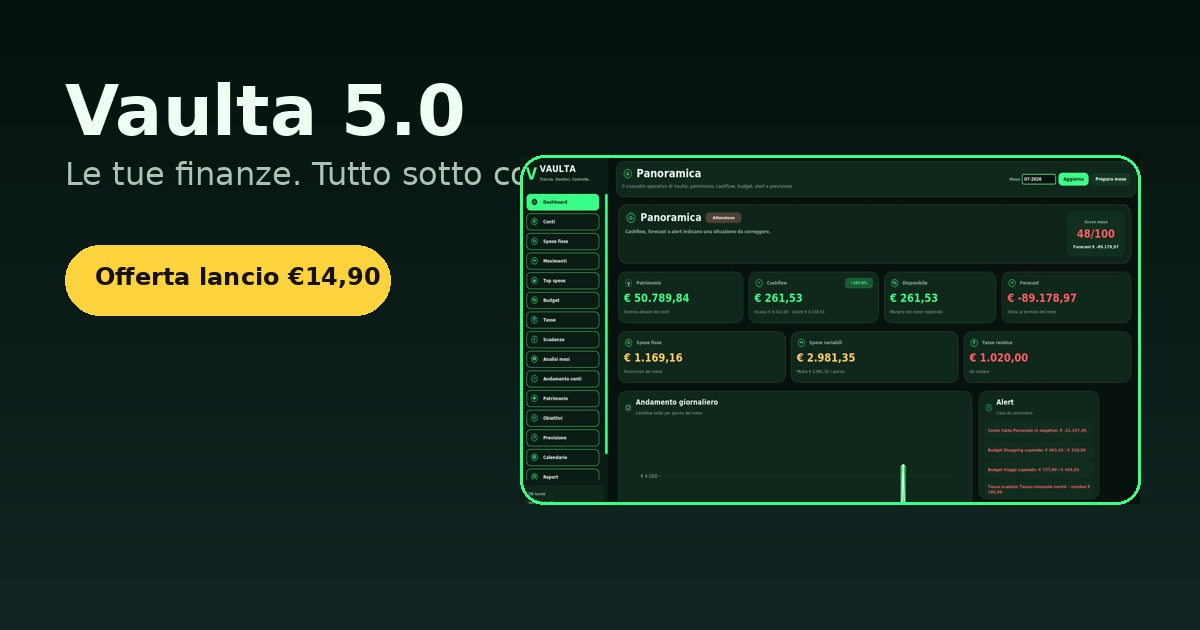
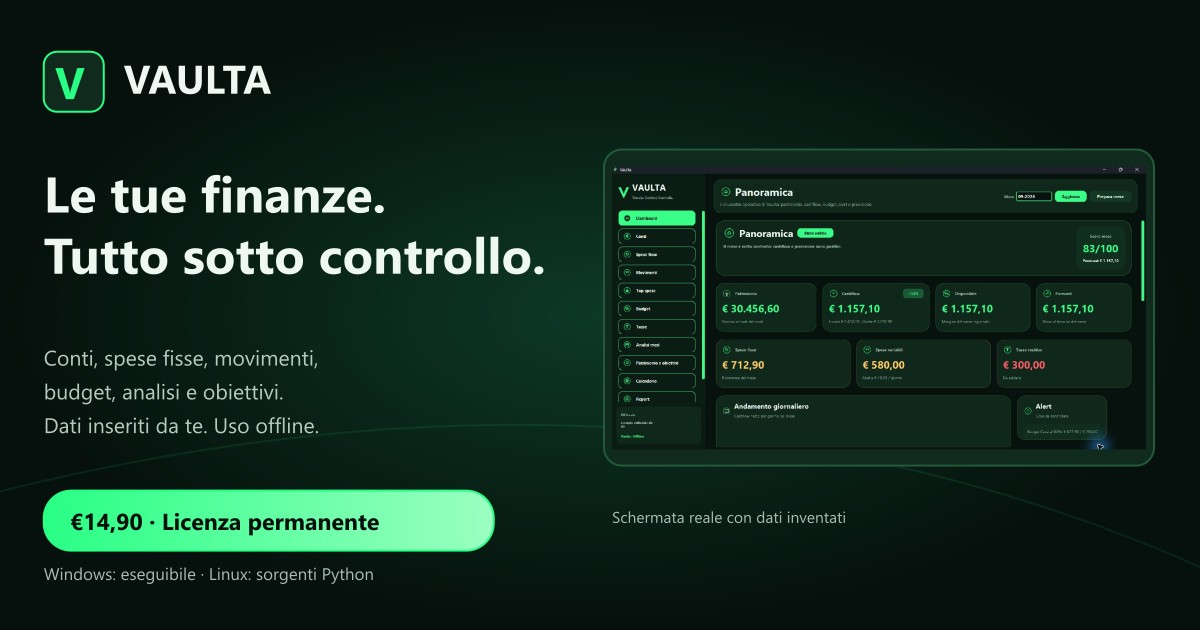
Aggiorna il sito Vaulta e le schermate della app

diff --git a/index.html b/index.html
@@ -3,24 +3,25 @@
 <head>
   <meta charset="utf-8" />
   <meta name="viewport" content="width=device-width, initial-scale=1" />
-  <title>Vaulta 6.0 — Controlla conti, spese e obiettivi</title>
-  <meta name="description" content="Vaulta 6.0 è un software desktop per gestire conti, spese, budget, obiettivi, tasse e report. Offline, dati locali, licenza permanente per Windows e Linux." />
+  <title>Vaulta — Controlla conti, spese e obiettivi</title>
+  <meta name="description" content="Vaulta è un software desktop per gestire conti, spese, budget, obiettivi, tasse e report. Dati inseriti manualmente, uso offline, licenza permanente. Windows con eseguibile; Linux tramite sorgenti Python." />
   <meta name="theme-color" content="#07110d" />
   <meta name="robots" content="index,follow" />
 
   <link rel="icon" type="image/png" href="assets/logo/favicon.png" />
   <link rel="shortcut icon" href="favicon.ico" />
   <link rel="apple-touch-icon" href="assets/logo/favicon.png" />
-  <link rel="preload" as="image" href="assets/screenshots/01_Panoramica.png" />
+  <link rel="preload" as="image" href="assets/screenshots/01_Panoramica.jpg" />
 
-  <meta property="og:title" content="Vaulta 6.0 — Controlla conti, spese e obiettivi" />
+  <meta property="og:title" content="Vaulta — Controlla conti, spese e obiettivi" />
   <meta property="og:description" content="Movimenti, budget, tasse, obiettivi e report in una app desktop offline, chiara e senza abbonamento." />
   <meta property="og:type" content="website" />
-  <meta property="og:image" content="assets/social/og-image.jpg" />
+  <meta property="og:image" content="https://kelaus15.github.io/vaulta/assets/social/og-image.jpg" /><meta property="og:image:width" content="1200" /><meta property="og:image:height" content="630" /><meta property="og:image:alt" content="Vaulta — finanze personali offline con dati inseriti da te" /><meta property="og:url" content="https://kelaus15.github.io/vaulta/" /><link rel="canonical" href="https://kelaus15.github.io/vaulta/" />
   <meta property="og:locale" content="it_IT" />
   <meta name="twitter:card" content="summary_large_image" />
 
-  <link rel="stylesheet" href="styles.css?v=7" />
+  <noscript><style>.reveal{opacity:1!important;transform:none!important}.menu-toggle{display:none!important}.main-nav{display:flex!important;position:static!important}.shot-list,.shot-zoom{display:none!important}</style></noscript>
+  <link rel="stylesheet" href="styles.css?v=ottobre2026" />
 </head>
 <body>
   <a class="skip-link" href="#contenuto">Salta al contenuto</a>
@@ -53,9 +54,9 @@
     <section class="hero" id="prodotto">
       <div class="container hero-grid">
         <div class="hero-copy reveal">
-          <p class="kicker"><span></span>Vaulta 6.0 · Windows e Linux</p>
+          <p class="kicker"><span></span>Vaulta · Windows · Linux da sorgenti</p>
           <h1>Controlla conti, spese e obiettivi</h1>
-          <p class="lead">Una app desktop chiara per leggere il mese, seguire il patrimonio e avere tutto sotto controllo in locale.</p>
+          <p class="lead">Una app desktop per leggere il mese, seguire il patrimonio e organizzare gli obiettivi. Inserisci tu i dati: restano nella cartella di Vaulta, sul tuo computer.</p>
 
           <div class="hero-actions">
             <a class="btn btn-primary" href="https://payhip.com/b/Q5RrJ" target="_blank" rel="noopener">Acquista ora a € 14,90</a>
@@ -71,7 +72,7 @@
         <div class="hero-showcase reveal delay-1" aria-label="Anteprima interfaccia Vaulta">
           <div class="screen-window hero-screen">
             <div class="window-bar" aria-hidden="true"><i></i><i></i><i></i><span>Panoramica</span></div>
-            <img src="assets/screenshots/01_Panoramica.png" alt="Schermata principale di Vaulta 6.0" />
+            <img src="assets/screenshots/01_Panoramica.jpg" alt="Panoramica di Vaulta con dati inventati" width="1536" height="816" />
           </div>
         </div>
       </div>
@@ -80,7 +81,7 @@
     <section class="trust-strip" aria-label="Vantaggi principali">
       <div class="container trust-grid">
         <div><strong>Pagamento una tantum</strong><span>Nessun abbonamento.</span></div>
-        <div><strong>Uso offline</strong><span>Nessun cloud obbligatorio.</span></div>
+        <div><strong>Uso offline</strong><span>Inserisci tu i dati.</span></div>
         <div><strong>Vista completa</strong><span>Conti, spese e analisi insieme.</span></div>
       </div>
     </section>
@@ -101,18 +102,18 @@
         <div class="feature-grid feature-grid-compact">
           <article class="feature-card reveal">
             <div class="feature-top"><span>01</span><svg viewBox="0 0 24 24" aria-hidden="true"><path d="M4 5h16v5H4zM4 14h7v5H4zM15 14h5v5h-5z"/></svg></div>
-            <h3>Dashboard completa</h3>
+            <h3>La tua panoramica</h3>
             <p>Saldo, entrate, uscite, spese fisse e budget residuo in una vista unica.</p>
           </article>
           <article class="feature-card reveal">
             <div class="feature-top"><span>02</span><svg viewBox="0 0 24 24" aria-hidden="true"><path d="M5 7a3 3 0 0 1 3-3h8a3 3 0 0 1 3 3v10a3 3 0 0 1-3 3H8a3 3 0 0 1-3-3zm3 1h8v2H8zm0 5h5v2H8z"/></svg></div>
-            <h3>Conti multipli</h3>
-            <p>Conto, carte e risparmi separati, ma sempre leggibili nel totale.</p>
+            <h3>Conti nel tuo ordine</h3>
+            <p>Conto principale, risparmi e investimenti nell’ordine che scegli, anche nelle altre schede.</p>
           </article>
           <article class="feature-card reveal">
             <div class="feature-top"><span>03</span><svg viewBox="0 0 24 24" aria-hidden="true"><path d="M7 7h11l-3-3 1.4-1.4L22.2 8l-5.8 5.4L15 12l3-3H7zm10 10H6l3 3-1.4 1.4L1.8 16l5.8-5.4L9 12l-3 3h11z"/></svg></div>
             <h3>Movimenti chiari</h3>
-            <p>Entrate e uscite con categorie, conto collegato e storico ordinato.</p>
+            <p>Registra incassi, spese e trasferimenti. Consulta mesi passati, tutto lo storico o un periodo scelto.</p>
           </article>
           <article class="feature-card reveal">
             <div class="feature-top"><span>04</span><svg viewBox="0 0 24 24" aria-hidden="true"><path d="M12 3a9 9 0 1 1-9 9h9zm2 0v7h7a9 9 0 0 0-7-7"/></svg></div>
@@ -121,14 +122,17 @@
           </article>
           <article class="feature-card reveal">
             <div class="feature-top"><span>05</span><svg viewBox="0 0 24 24" aria-hidden="true"><path d="M13 3a7 7 0 0 0-6.7 5H4v2h2a8 8 0 0 0 0 2H4v2h2.3A7 7 0 0 0 13 19a7.2 7.2 0 0 0 5.2-2.1l-1.5-1.4A5.2 5.2 0 0 1 13 17a5 5 0 0 1-4.6-3H14v-2H8a6 6 0 0 1 0-2h6V8H8.4A5 5 0 0 1 13 5a5.2 5.2 0 0 1 3.7 1.5l1.5-1.4A7.2 7.2 0 0 0 13 3"/></svg></div>
-            <h3>Tasse e pagamenti</h3>
-            <p>Importi, residui e stato dei pagamenti in modo semplice.</p>
+            <h3>Tasse e calendario</h3>
+            <p>Importi, residui e pagamenti delle tasse. Calendario e ricorrenze basati sui dati che inserisci.</p>
           </article>
           <article class="feature-card reveal">
             <div class="feature-top"><span>06</span><svg viewBox="0 0 24 24" aria-hidden="true"><path d="M4 18h16v2H4zM6 16V9h3v7zm5 0V4h3v12zm5 0v-5h3v5z"/></svg></div>
             <h3>Analisi e obiettivi</h3>
-            <p>Trend, confronti e progressi per capire il mese e pianificare meglio.</p>
+            <p>Analizza un mese, confronta due mesi e segui i conti. Destina agli obiettivi una quota del risultato mensile.</p>
           </article>
+          <article class="feature-card reveal"><div class="feature-top"><span>07</span></div><h3>Spese fisse e archivio</h3><p>Seleziona una spesa, modifica i dati e chiudila come saldata. Resta disponibile in Spese archiviate.</p></article>
+          <article class="feature-card reveal"><div class="feature-top"><span>08</span></div><h3>Patrimonio e obiettivi</h3><p>Patrimonio, obiettivi e previsione nello stesso spazio. Applica agli obiettivi una percentuale di incassi meno spese.</p></article>
+          <article class="feature-card reveal"><div class="feature-top"><span>09</span></div><h3>Report e backup</h3><p>Consulta i report, esporta i dati disponibili in CSV e conserva copie locali del tuo archivio.</p></article>
         </div>
       </div>
     </section>
@@ -143,15 +147,29 @@
         <div class="showcase reveal">
           <div class="showcase-main">
             <div class="window-bar" aria-hidden="true"><i></i><i></i><i></i><span id="shot-title">Panoramica</span></div>
-            <img id="active-shot" src="assets/screenshots/01_Panoramica.png" alt="Screenshot Vaulta: Panoramica" />
+            <img id="active-shot" src="assets/screenshots/01_Panoramica.jpg" alt="Screenshot Vaulta: Panoramica" width="1536" height="816" loading="lazy" />
+            <button type="button" class="shot-zoom" id="open-shot">Ingrandisci schermata</button>
+            <p class="demo-caption">Schermate reali con dati inventati.</p>
           </div>
-          <div class="shot-list" aria-label="Seleziona screenshot">
-            <button class="shot-tab active" type="button" data-shot="assets/screenshots/01_Panoramica.png" data-title="Panoramica"><strong>Panoramica</strong><span>Dashboard generale</span></button>
-            <button class="shot-tab" type="button" data-shot="assets/screenshots/03_Movimenti.png" data-title="Movimenti"><strong>Movimenti</strong><span>Entrate e uscite</span></button>
-            <button class="shot-tab" type="button" data-shot="assets/screenshots/04_Budget.png" data-title="Budget"><strong>Budget</strong><span>Limiti e residuo</span></button>
-            <button class="shot-tab" type="button" data-shot="assets/screenshots/05_Tasse.png" data-title="Tasse"><strong>Tasse</strong><span>Stato pagamenti</span></button>
-            <button class="shot-tab" type="button" data-shot="assets/screenshots/06_Obiettivi.png" data-title="Obiettivi"><strong>Obiettivi</strong><span>Progressi personali</span></button>
-            <button class="shot-tab" type="button" data-shot="assets/screenshots/09_Analisi.png" data-title="Analisi"><strong>Analisi</strong><span>Report e confronti</span></button>
+          <div class="shot-list" aria-label="Seleziona schermata">
+            <button class="shot-tab active" aria-pressed="true" type="button" data-shot="assets/screenshots/01_Panoramica.jpg" data-title="Panoramica"><strong>Panoramica</strong><span>Il mese a colpo d’occhio</span></button>
+            <button class="shot-tab" aria-pressed="false" type="button" data-shot="assets/screenshots/02_Conti.jpg" data-title="Conti"><strong>Conti</strong><span>Il tuo ordine personale</span></button>
+            <button class="shot-tab" aria-pressed="false" type="button" data-shot="assets/screenshots/11_SpeseFisse.jpg" data-title="Spese fisse"><strong>Spese fisse</strong><span>Modifica e chiusura</span></button>
+            <button class="shot-tab" aria-pressed="false" type="button" data-shot="assets/screenshots/12_SpeseArchiviate.jpg" data-title="Spese archiviate"><strong>Spese archiviate</strong><span>Ricorrenze conservate</span></button>
+            <button class="shot-tab" aria-pressed="false" type="button" data-shot="assets/screenshots/03_Movimenti.jpg" data-title="Movimenti"><strong>Movimenti</strong><span>Anche lo storico</span></button>
+            <button class="shot-tab" aria-pressed="false" type="button" data-shot="assets/screenshots/04_Budget.jpg" data-title="Budget"><strong>Budget</strong><span>Limiti e residuo</span></button>
+            <button class="shot-tab" aria-pressed="false" type="button" data-shot="assets/screenshots/05_Tasse.jpg" data-title="Tasse"><strong>Tasse</strong><span>Importi e pagamenti</span></button>
+            <button class="shot-tab" aria-pressed="false" type="button" data-shot="assets/screenshots/06_Obiettivi.jpg" data-title="Obiettivi"><strong>Obiettivi</strong><span>Quota del risultato mensile</span></button>
+            <button class="shot-tab" aria-pressed="false" type="button" data-shot="assets/screenshots/09_Analisi.jpg" data-title="Analisi mesi"><strong>Analisi mesi</strong><span>Check del singolo mese</span></button>
+            <button class="shot-tab" aria-pressed="false" type="button" data-shot="assets/screenshots/08_AndamentoConti.jpg" data-title="Andamento conti"><strong>Andamento conti</strong><span>Conti e periodo scelto</span></button>
+            <button class="shot-tab" aria-pressed="false" type="button" data-shot="assets/screenshots/07_Report.jpg" data-title="Report"><strong>Report</strong><span>Esportazioni e lettura dei dati</span></button>
+            <button class="shot-tab" aria-pressed="false" type="button" data-shot="assets/screenshots/10_Calendario.jpg" data-title="Calendario"><strong>Calendario</strong><span>Dati e ricorrenze del mese</span></button>
+            <button class="shot-tab" aria-pressed="false" type="button" data-shot="assets/screenshots/13_ChiudiSpesa.jpg" data-title="Chiusura spesa"><strong>Chiusura spesa</strong><span>Chiudi come saldata</span></button>
+            <button class="shot-tab" aria-pressed="false" type="button" data-shot="assets/screenshots/14_ConfrontoMesi.jpg" data-title="Confronto mesi"><strong>Confronto mesi</strong><span>Due mesi a confronto</span></button>
+            <button class="shot-tab" aria-pressed="false" type="button" data-shot="assets/screenshots/15_Patrimonio.jpg" data-title="Patrimonio"><strong>Patrimonio</strong><span>Distribuzione fra i conti</span></button>
+            <button class="shot-tab" aria-pressed="false" type="button" data-shot="assets/screenshots/16_Previsione.jpg" data-title="Previsione"><strong>Previsione</strong><span>Stima di fine mese</span></button>
+            <button class="shot-tab" aria-pressed="false" type="button" data-shot="assets/screenshots/17_ObiettiviAvanzamento.jpg" data-title="Avanzamento obiettivi"><strong>Avanzamento obiettivi</strong><span>Progressi degli obiettivi</span></button>
+            <button class="shot-tab" aria-pressed="false" type="button" data-shot="assets/screenshots/18_TopSpese.jpg" data-title="Top spese"><strong>Top spese</strong><span>Le spese più rilevanti</span></button>
           </div>
         </div>
       </div>
@@ -162,20 +180,20 @@
         <div class="pricing-copy">
           <p class="eyebrow">Prezzo</p>
           <h2>Una licenza semplice. Nessun abbonamento.</h2>
-          <p>Vaulta è una app desktop da acquistare una volta e usare localmente, su Windows e Linux.</p>
+          <p>Vaulta si acquista una volta. Su Windows avvii l’eseguibile; su Linux usi i sorgenti Python seguendo la guida.</p>
         </div>
 
-        <article class="price-card" aria-label="Offerta di lancio Vaulta">
-          <div class="offer-badge">Offerta lancio</div>
-          <div class="price-line"><span>€ 19,90</span><strong>€ 14,90</strong></div>
+        <article class="price-card" aria-label="Licenza Vaulta">
+          <div class="offer-badge">Pagamento unico</div>
+          <div class="price-line"><strong>€ 14,90</strong></div>
           <ul>
             <li>Licenza permanente</li>
-            <li>Windows e Linux</li>
+            <li>Windows: eseguibile, senza Python</li><li>Linux: sorgenti Python e dipendenze</li>
             <li>Utilizzo offline</li>
             <li>Dati locali sul tuo PC</li>
           </ul>
           <a class="btn btn-primary btn-full" href="https://payhip.com/b/Q5RrJ" target="_blank" rel="noopener">Acquista su Payhip</a>
-          <small>Pagamento gestito tramite Payhip/PayPal.</small>
+          <small>Prezzo e metodi di pagamento nella pagina Payhip.</small>
         </article>
       </div>
     </section>
@@ -191,15 +209,19 @@
         <div class="faq-grid reveal">
           <details open><summary>Vaulta funziona offline?</summary><p>Sì. Vaulta è un software desktop e i dati vengono gestiti localmente sul computer.</p></details>
           <details><summary>È un abbonamento?</summary><p>No. È una licenza permanente con pagamento una tantum.</p></details>
-          <details><summary>Su quali sistemi funziona?</summary><p>Vaulta è disponibile per Windows e Linux.</p></details>
-          <details><summary>I dati sono salvati online?</summary><p>No. L’app è pensata per usare dati locali sul tuo PC, senza cloud obbligatorio.</p></details>
+          <details><summary>Su quali sistemi funziona?</summary><p>Il pacchetto Windows contiene l’eseguibile. Per Linux sono disponibili i sorgenti Python: occorre installare le dipendenze secondo la guida. Non è un eseguibile Linux precompilato.</p></details>
+          <details><summary>I dati sono salvati online?</summary><p>No. Vaulta conserva i dati nella propria cartella sul computer e non li invia a servizi cloud. Conserva copie di backup e proteggi la cartella dell’app.</p></details>
+          <details><summary>Si collega alla banca o alla carta?</summary><p>No. Inserisci tu conti, saldi e movimenti. Vaulta non collega conti reali e non esegue pagamenti.</p></details>
+          <details><summary>Come funzionano gli obiettivi mensili?</summary><p>Scegli una percentuale del risultato positivo del mese, cioè incassi meno spese. Applichi tu il mese all’obiettivo. Puoi sottrarre un mese in rosso, fino ad azzerare l’accantonato. Non viene spostato denaro tra conti.</p></details>
+          <details><summary>Chiudere una spesa fissa registra un pagamento?</summary><p>La chiusura interrompe la ricorrenza e conserva la spesa nell’archivio. Registra l’ultimo pagamento nei Movimenti.</p></details>
+          <details><summary>Le previsioni sono certe?</summary><p>Le previsioni sono stime basate sui dati inseriti. I saldi ricostruiti senza un’apertura mensile salvata sono indicati come stimati.</p></details>
         </div>
       </div>
     </section>
 
     <section class="final-cta">
       <div class="container final-card reveal">
-        <p class="eyebrow">Vaulta 6.0</p>
+        <p class="eyebrow">Vaulta</p>
         <h2>Porta ordine nelle tue finanze.</h2>
         <p>Più controllo, meno dispersione. In una app desktop chiara e locale.</p>
         <a class="btn btn-primary" href="https://payhip.com/b/Q5RrJ" target="_blank" rel="noopener">Acquista Vaulta</a>
@@ -215,10 +237,12 @@
         <a href="#prezzo">Prezzo</a>
         <a href="#faq">FAQ</a>
         <a href="https://payhip.com/b/Q5RrJ" target="_blank" rel="noopener">Payhip</a>
+        <a href="https://payhip.com/Vaulta/contact" target="_blank" rel="noopener">Assistenza</a>
       </nav>
     </div>
   </footer>
 
-  <script src="script.js?v=7"></script>
+  <dialog id="shot-dialog" aria-labelledby="dialog-title"><div class="dialog-bar"><h2 id="dialog-title">Panoramica</h2><button id="close-shot" type="button">Chiudi</button></div><img id="dialog-shot" alt="" /></dialog>
+  <script src="script.js?v=ottobre2026"></script>
 </body>
 </html>

diff --git a/styles.css b/styles.css
@@ -38,3 +38,23 @@
 @media (prefers-reduced-motion:reduce){html{scroll-behavior:auto}.reveal{opacity:1;transform:none;transition:none}.btn:hover,.shot-tab:hover{transform:none}.hero-screen{transform:none}}
 @media (max-width:1080px){.hero-grid,.pricing-grid{grid-template-columns:1fr}.feature-grid-compact{grid-template-columns:repeat(2,1fr)}.showcase{grid-template-columns:1fr}.showcase-main img{min-height:380px}.hero-screen{transform:none}.card-a{left:12px}.card-b{right:12px}}
 @media (max-width:760px){.container{width:min(calc(100% - 28px),var(--container))}.nav-shell{min-height:62px;padding:0 14px}.brand span{display:none}.nav-cta{display:none}.menu-toggle{display:flex}.main-nav{position:absolute;left:14px;right:14px;top:82px;display:none;flex-direction:column;align-items:flex-start;padding:14px;border-radius:20px;background:rgba(6,16,12,.97);border:1px solid rgba(255,255,255,.12);box-shadow:0 22px 70px rgba(0,0,0,.36)}.main-nav.open{display:flex}.main-nav a{width:100%}.section-pad{padding:54px 0}.hero{padding:34px 0 20px}h1{font-size:clamp(2.2rem,12vw,3.1rem)}h2{font-size:clamp(1.85rem,10vw,2.5rem)}.lead{font-size:1rem}.trust-grid,.feature-grid-compact,.faq-grid{grid-template-columns:1fr}.hero-actions .btn{width:100%}.screen-window,.showcase-main{border-radius:22px;padding:8px}.screen-window img,.showcase-main img{border-radius:8px 8px 16px 16px;min-height:auto}.intro-panel,.final-card,.price-card{padding:24px}.intro-line{white-space:normal;font-size:1rem}.price-line{display:block}.price-line span{display:block;margin-bottom:8px}.footer-grid{align-items:flex-start}.footer-links{width:100%;justify-content:space-between}}
+
+/* Full screenshots remain readable without cropping the application. */
+.showcase{align-items:start;grid-template-columns:1.5fr 1fr}
+.showcase-main img{width:100%;height:auto;min-height:0;object-fit:contain}
+.shot-list{grid-template-columns:repeat(2,minmax(0,1fr));max-height:560px;overflow:auto;padding:3px}
+.shot-tab{padding:12px;min-width:0}
+.shot-zoom{margin:12px 4px 0;padding:10px 16px;border-radius:12px;border:1px solid var(--line-green);background:var(--panel);color:var(--green-2);cursor:pointer}
+.demo-caption{margin:8px 4px 0;color:var(--muted);font-size:.85rem}
+.intro-line{white-space:normal}
+:focus-visible{outline:3px solid var(--green-2);outline-offset:4px}
+[id]{scroll-margin-top:125px}
+#shot-dialog{width:min(96vw,1600px);max-width:1600px;max-height:94vh;background:var(--bg);color:var(--text);border:1px solid var(--line-green);border-radius:18px;padding:16px}
+#shot-dialog::backdrop{background:rgba(0,0,0,.85)}
+.dialog-bar{display:flex;align-items:center;justify-content:space-between;gap:20px;margin-bottom:12px}
+.dialog-bar h2{font-size:1.2rem;letter-spacing:0}
+.dialog-bar button{padding:10px 18px;border:0;border-radius:10px;background:var(--green);color:var(--bg);font-weight:700;cursor:pointer}
+#dialog-shot{max-width:100%;max-height:78vh;object-fit:contain;margin:auto}
+@media(max-width:1080px){.showcase{grid-template-columns:1fr}.shot-list{max-height:none;grid-template-columns:repeat(3,minmax(0,1fr))}}
+@media(max-width:760px){.shot-list{grid-template-columns:repeat(2,minmax(0,1fr))}.footer-links{flex-wrap:wrap;justify-content:flex-start}.brand span{display:block}.brand img{width:34px;height:34px}}
+.screen-window img{height:auto}

diff --git a/script.js b/script.js
@@ -22,12 +22,14 @@ if (menuToggle && mainNav) {
   menuToggle.addEventListener('click', () => {
     const isOpen = mainNav.classList.toggle('open');
     menuToggle.setAttribute('aria-expanded', String(isOpen));
+    menuToggle.setAttribute('aria-label', isOpen ? 'Chiudi menu' : 'Apri menu');
   });
 
   mainNav.querySelectorAll('a').forEach((link) => {
     link.addEventListener('click', () => {
       mainNav.classList.remove('open');
       menuToggle.setAttribute('aria-expanded', 'false');
+      menuToggle.setAttribute('aria-label', 'Apri menu');
     });
   });
 }
@@ -45,7 +47,30 @@ shotTabs.forEach((tab) => {
     activeShot.src = src;
     activeShot.alt = `Screenshot Vaulta: ${title}`;
     if (shotTitle) shotTitle.textContent = title;
-    shotTabs.forEach((item) => item.classList.remove('active'));
+    shotTabs.forEach((item) => {
+      item.classList.remove('active');
+      item.setAttribute('aria-pressed', 'false');
+    });
     tab.classList.add('active');
+    tab.setAttribute('aria-pressed', 'true');
   });
+});
+
+const shotDialog = document.querySelector('#shot-dialog');
+document.querySelector('#open-shot')?.addEventListener('click', () => {
+  if (!activeShot || !shotDialog) return;
+  const large = document.querySelector('#dialog-shot');
+  large.src = activeShot.src;
+  large.alt = activeShot.alt;
+  document.querySelector('#dialog-title').textContent = shotTitle.textContent;
+  shotDialog.showModal();
+});
+document.querySelector('#close-shot')?.addEventListener('click', () => shotDialog.close());
+document.addEventListener('keydown', (event) => {
+  if (event.key === 'Escape' && mainNav?.classList.contains('open')) {
+    mainNav.classList.remove('open');
+    menuToggle.setAttribute('aria-expanded', 'false');
+    menuToggle.setAttribute('aria-label', 'Apri menu');
+    menuToggle.focus();
+  }
 });

diff --git a/README_CARICA_SU_GITHUB.md b/README_CARICA_SU_GITHUB.md
@@ -1,26 +1,9 @@
-# Come caricare Vaulta 6.0 su GitHub Pages
+# Pubblicare il sito Vaulta
 
-Carica nella root del repository il contenuto di questa cartella, non lo ZIP e non una cartella esterna.
+Carica il contenuto di questa cartella nella radice del repository `kelaus15/vaulta`, mantenendo la cartella assets. Non caricare lo ZIP intero né la cartella esterna. Includi anche .nojekyll, robots.txt e sitemap.xml.
 
-La root del repository deve contenere:
+In GitHub: Settings → Pages → Deploy from a branch → main → / (root). Se il repository usa già un’altra procedura di pubblicazione, mantienila.
 
-```text
-assets/
-favicon.ico
-index.html
-script.js
-styles.css
-README_CARICA_SU_GITHUB.md
-README_GITHUB_PAGES.md
-```
+Il sito previsto è https://kelaus15.github.io/vaulta/. Il pulsante d’acquisto porta a https://payhip.com/b/Q5RrJ. Se cambi dominio, aggiorna canonical, og:url, og:image, robots.txt e sitemap.xml.
 
-Impostazione consigliata in GitHub:
-
-```text
-Settings -> Pages
-Source: Deploy from a branch
-Branch: main
-Folder: / root
-```
-
-Dopo il caricamento attendi qualche minuto e aggiorna la pagina con CTRL + F5.
+Su Payhip sostituisci titolo e descrizione con media-kit/copy/PAYHIP_COPY.txt del pacchetto master. Carica la nuova copertina e i file cliente aggiornati, senza database, backup, sorgenti di marketing o cartelle personali. Il sito contiene solo i materiali da mostrare al pubblico.

diff --git a/README_GITHUB_PAGES.md b/README_GITHUB_PAGES.md
@@ -1,18 +1,7 @@
-# Vaulta 6.0 Landing Page
+# Sito Vaulta
 
-Landing page statica per GitHub Pages.
+Pagina statica: non richiede build né servizi esterni. HTML, CSS, JavaScript e immagini sono locali. Nessuna analisi del traffico, form di raccolta dati o font remoto è stato aggiunto.
 
-## File principali
+Menu mobile, galleria con ingrandimento, FAQ e collegamenti di acquisto. Il contenuto principale resta leggibile senza JavaScript. Il nome pubblico è Vaulta. Le immagini della UI sono reali, con dati inventati.
 
-- `index.html`
-- `styles.css`
-- `script.js`
-- `assets/`
-- `favicon.ico`
-
-## Note
-
-- Non contiene il software Vaulta.
-- Usa solo asset già approvati presenti in `assets/`.
-- Non richiede build, npm, framework o server.
-- È pronta per essere pubblicata da `main / root` su GitHub Pages.
+Il software, i database e gli archivi di lavoro non fanno parte di questo sito. Il checkout e il modulo di assistenza sono su Payhip e applicano le condizioni di quel servizio.
